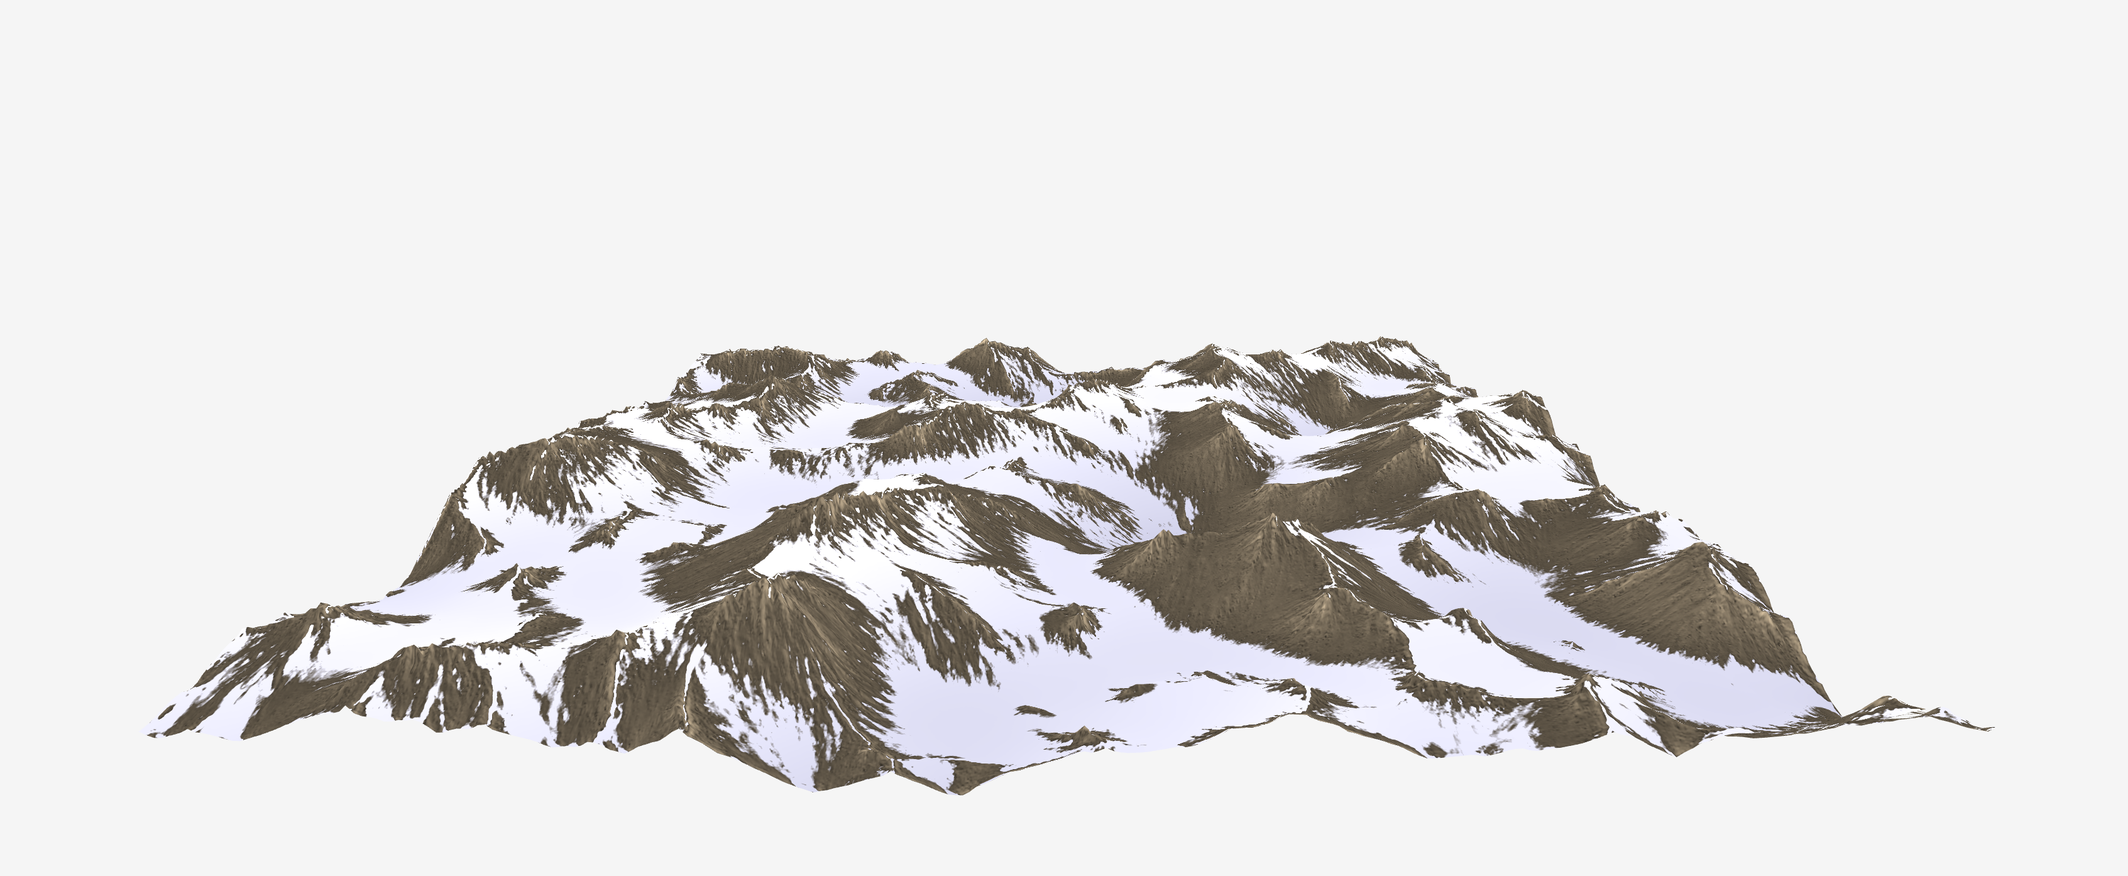
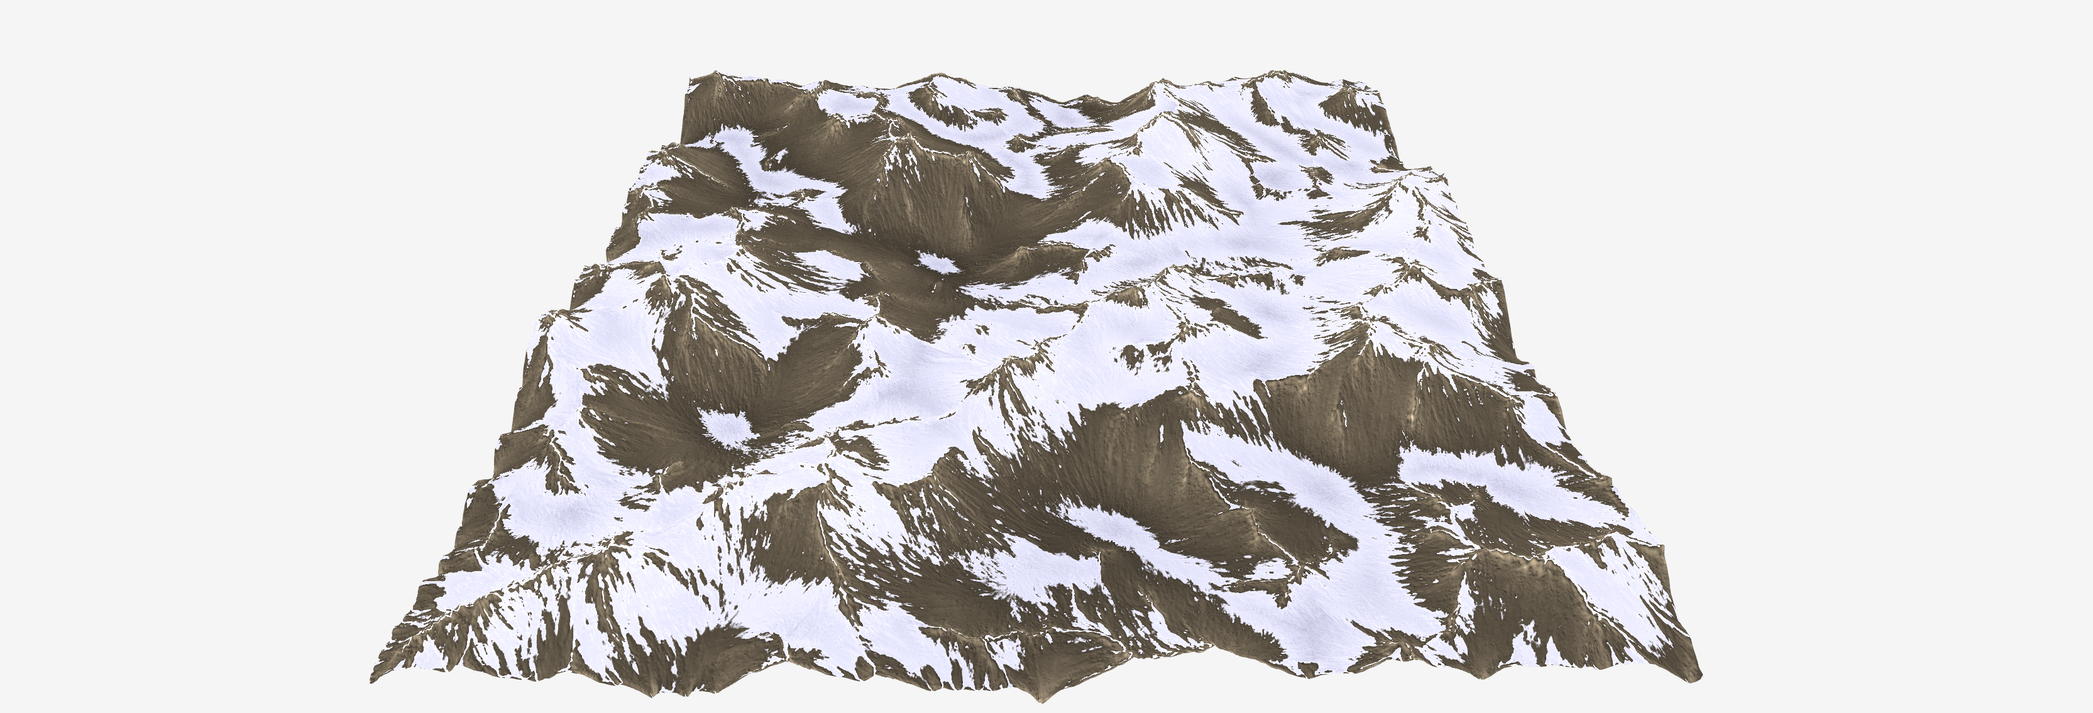
Update snow rendering. Fix a couple more silly buffer overflows.

Changed region(s): [[0.0625, 0.0925, 0.9369, 0.9868]]

diff --git a/src/shaders/shaders.h b/src/shaders/shaders.h
@@ -86,69 +86,76 @@ static const char SHADERS_HMAP_FRAG_SRC[] = {
     44, 10, 32, 32, 32, 32, 32, 32, 32, 32, 32, 32, 32, 32, 32, 32, 32, 32, 32, 32, 
     32, 32, 32, 32, 32, 32, 32, 32, 32, 32, 32, 32, 32, 32, 32, 32, 32, 32, 32, 32, 
     32, 32, 32, 32, 32, 32, 115, 110, 111, 119, 95, 112, 111, 111, 108, 105, 110, 103, 42, 115, 
-    110, 111, 119, 95, 116, 104, 114, 101, 115, 104, 111, 108, 100, 45, 48, 46, 48, 48, 49, 53, 
-    44, 10, 32, 32, 32, 32, 32, 32, 32, 32, 32, 32, 32, 32, 32, 32, 32, 32, 32, 32, 
+    110, 111, 119, 95, 116, 104, 114, 101, 115, 104, 111, 108, 100, 45, 48, 46, 48, 48, 48, 54, 
+    47, 112, 111, 119, 40, 118, 44, 32, 49, 46, 53, 41, 44, 10, 32, 32, 32, 32, 32, 32, 
     32, 32, 32, 32, 32, 32, 32, 32, 32, 32, 32, 32, 32, 32, 32, 32, 32, 32, 32, 32, 
-    32, 32, 32, 32, 32, 32, 48, 46, 48, 44, 32, 49, 46, 48, 44, 32, 115, 110, 111, 119, 
-    95, 103, 114, 97, 100, 105, 101, 110, 116, 41, 44, 32, 48, 44, 32, 49, 41, 59, 10, 32, 
-    32, 32, 32, 32, 32, 32, 32, 32, 32, 32, 32, 118, 101, 99, 51, 32, 115, 110, 111, 119, 
-    32, 61, 32, 118, 101, 99, 51, 40, 48, 46, 55, 41, 32, 43, 32, 48, 46, 54, 42, 118, 
-    101, 99, 51, 40, 118, 44, 32, 118, 44, 32, 48, 46, 50, 43, 48, 46, 56, 48, 42, 118, 
-    41, 59, 10, 32, 32, 32, 32, 32, 32, 32, 32, 32, 32, 32, 32, 118, 101, 99, 51, 32, 
-    114, 111, 99, 107, 32, 61, 32, 118, 101, 99, 51, 40, 49, 48, 42, 112, 111, 119, 40, 103, 
-    114, 97, 100, 105, 101, 110, 116, 44, 32, 49, 46, 48, 47, 50, 46, 50, 41, 32, 43, 32, 
-    48, 46, 51, 41, 32, 42, 32, 118, 101, 99, 51, 40, 48, 46, 52, 48, 44, 48, 46, 51, 
-    54, 44, 48, 46, 51, 48, 41, 59, 10, 32, 32, 32, 32, 32, 32, 32, 32, 32, 32, 32, 
-    32, 102, 105, 110, 97, 108, 67, 111, 108, 111, 114, 32, 61, 32, 118, 101, 99, 52, 40, 115, 
-    110, 111, 119, 95, 97, 109, 111, 117, 110, 116, 32, 42, 32, 115, 110, 111, 119, 32, 43, 32, 
-    40, 49, 46, 48, 32, 45, 32, 115, 110, 111, 119, 95, 97, 109, 111, 117, 110, 116, 41, 32, 
-    42, 32, 114, 111, 99, 107, 44, 32, 49, 46, 48, 41, 59, 10, 32, 32, 32, 32, 32, 32, 
-    32, 32, 125, 32, 98, 114, 101, 97, 107, 59, 10, 10, 32, 32, 32, 32, 32, 32, 32, 32, 
-    47, 42, 32, 114, 97, 119, 32, 97, 108, 98, 101, 100, 111, 32, 42, 47, 10, 32, 32, 32, 
-    32, 32, 32, 32, 32, 99, 97, 115, 101, 32, 49, 58, 32, 123, 10, 32, 32, 32, 32, 32, 
-    32, 32, 32, 32, 32, 32, 32, 102, 105, 110, 97, 108, 67, 111, 108, 111, 114, 32, 61, 32, 
-    118, 101, 99, 52, 40, 118, 41, 59, 10, 32, 32, 32, 32, 32, 32, 32, 32, 125, 32, 98, 
-    114, 101, 97, 107, 59, 10, 10, 32, 32, 32, 32, 32, 32, 32, 32, 47, 42, 32, 101, 120, 
-    97, 103, 103, 101, 114, 97, 116, 101, 100, 32, 97, 108, 98, 101, 100, 111, 32, 42, 47, 10, 
-    32, 32, 32, 32, 32, 32, 32, 32, 99, 97, 115, 101, 32, 50, 58, 32, 123, 10, 32, 32, 
+    32, 32, 32, 32, 32, 32, 32, 32, 32, 32, 32, 32, 32, 32, 32, 32, 32, 32, 48, 46, 
+    48, 44, 32, 49, 46, 48, 44, 32, 115, 110, 111, 119, 95, 103, 114, 97, 100, 105, 101, 110, 
+    116, 47, 112, 111, 119, 40, 118, 44, 32, 49, 46, 53, 41, 41, 44, 32, 48, 44, 32, 49, 
+    41, 59, 10, 32, 32, 32, 32, 32, 32, 32, 32, 32, 32, 32, 32, 102, 108, 111, 97, 116, 
+    32, 102, 108, 97, 116, 116, 101, 110, 101, 100, 95, 103, 114, 97, 100, 105, 101, 110, 116, 32, 
+    61, 32, 112, 111, 119, 40, 103, 114, 97, 100, 105, 101, 110, 116, 44, 32, 49, 46, 48, 47, 
+    56, 46, 50, 41, 59, 10, 32, 32, 32, 32, 32, 32, 32, 32, 32, 32, 32, 32, 118, 101, 
+    99, 51, 32, 115, 110, 111, 119, 32, 61, 32, 48, 46, 53, 32, 43, 32, 118, 101, 99, 51, 
+    40, 102, 108, 97, 116, 116, 101, 110, 101, 100, 95, 103, 114, 97, 100, 105, 101, 110, 116, 44, 
+    32, 102, 108, 97, 116, 116, 101, 110, 101, 100, 95, 103, 114, 97, 100, 105, 101, 110, 116, 44, 
+    32, 48, 46, 49, 53, 43, 48, 46, 56, 53, 42, 102, 108, 97, 116, 116, 101, 110, 101, 100, 
+    95, 103, 114, 97, 100, 105, 101, 110, 116, 41, 59, 10, 32, 32, 32, 32, 32, 32, 32, 32, 
+    32, 32, 32, 32, 118, 101, 99, 51, 32, 114, 111, 99, 107, 32, 61, 32, 118, 101, 99, 51, 
+    40, 49, 48, 42, 112, 111, 119, 40, 103, 114, 97, 100, 105, 101, 110, 116, 44, 32, 49, 46, 
+    48, 47, 50, 46, 50, 41, 32, 43, 32, 48, 46, 51, 41, 32, 42, 32, 118, 101, 99, 51, 
+    40, 48, 46, 52, 48, 44, 48, 46, 51, 54, 44, 48, 46, 51, 48, 41, 59, 10, 32, 32, 
     32, 32, 32, 32, 32, 32, 32, 32, 32, 32, 102, 105, 110, 97, 108, 67, 111, 108, 111, 114, 
-    32, 61, 32, 118, 101, 99, 52, 40, 53, 42, 112, 111, 119, 40, 118, 44, 32, 52, 46, 50, 
-    41, 41, 59, 10, 32, 32, 32, 32, 32, 32, 32, 32, 125, 32, 98, 114, 101, 97, 107, 59, 
-    10, 10, 32, 32, 32, 32, 32, 32, 32, 32, 47, 42, 32, 103, 114, 97, 121, 115, 99, 97, 
-    108, 101, 32, 103, 114, 97, 100, 105, 101, 110, 116, 32, 42, 47, 10, 32, 32, 32, 32, 32, 
-    32, 32, 32, 99, 97, 115, 101, 32, 51, 58, 32, 123, 10, 32, 32, 32, 32, 32, 32, 32, 
-    32, 32, 32, 32, 32, 102, 105, 110, 97, 108, 67, 111, 108, 111, 114, 32, 61, 32, 118, 101, 
-    99, 52, 40, 53, 42, 112, 111, 119, 40, 103, 114, 97, 100, 105, 101, 110, 116, 44, 32, 49, 
-    46, 48, 47, 50, 46, 50, 41, 41, 59, 10, 32, 32, 32, 32, 32, 32, 32, 32, 125, 32, 
-    98, 114, 101, 97, 107, 59, 10, 10, 32, 32, 32, 32, 32, 32, 32, 32, 47, 42, 32, 112, 
-    115, 101, 117, 100, 111, 32, 99, 111, 108, 111, 114, 105, 110, 103, 32, 103, 114, 97, 100, 105, 
-    101, 110, 116, 32, 42, 47, 10, 32, 32, 32, 32, 32, 32, 32, 32, 99, 97, 115, 101, 32, 
-    52, 58, 32, 123, 10, 32, 32, 32, 32, 32, 32, 32, 32, 32, 32, 32, 32, 102, 108, 111, 
-    97, 116, 32, 102, 108, 97, 116, 116, 101, 110, 101, 100, 95, 103, 114, 97, 100, 105, 101, 110, 
-    116, 32, 61, 32, 112, 111, 119, 40, 103, 114, 97, 100, 105, 101, 110, 116, 44, 32, 49, 46, 
-    48, 47, 50, 46, 50, 41, 59, 10, 32, 32, 32, 32, 32, 32, 32, 32, 32, 32, 32, 32, 
-    102, 108, 111, 97, 116, 32, 114, 97, 116, 101, 32, 61, 32, 52, 59, 10, 32, 32, 32, 32, 
-    32, 32, 32, 32, 32, 32, 32, 32, 102, 108, 111, 97, 116, 32, 114, 32, 61, 32, 99, 111, 
-    115, 40, 50, 42, 80, 73, 32, 42, 32, 40, 114, 97, 116, 101, 42, 102, 108, 97, 116, 116, 
-    101, 110, 101, 100, 95, 103, 114, 97, 100, 105, 101, 110, 116, 41, 41, 59, 10, 32, 32, 32, 
-    32, 32, 32, 32, 32, 32, 32, 32, 32, 102, 108, 111, 97, 116, 32, 103, 32, 61, 32, 99, 
-    111, 115, 40, 50, 42, 80, 73, 32, 42, 32, 40, 48, 46, 54, 54, 55, 32, 43, 32, 114, 
+    32, 61, 32, 118, 101, 99, 52, 40, 115, 110, 111, 119, 95, 97, 109, 111, 117, 110, 116, 32, 
+    42, 32, 115, 110, 111, 119, 32, 43, 32, 40, 49, 46, 48, 32, 45, 32, 115, 110, 111, 119, 
+    95, 97, 109, 111, 117, 110, 116, 41, 32, 42, 32, 114, 111, 99, 107, 44, 32, 49, 46, 48, 
+    41, 59, 10, 32, 32, 32, 32, 32, 32, 32, 32, 125, 32, 98, 114, 101, 97, 107, 59, 10, 
+    10, 32, 32, 32, 32, 32, 32, 32, 32, 47, 42, 32, 114, 97, 119, 32, 97, 108, 98, 101, 
+    100, 111, 32, 42, 47, 10, 32, 32, 32, 32, 32, 32, 32, 32, 99, 97, 115, 101, 32, 49, 
+    58, 32, 123, 10, 32, 32, 32, 32, 32, 32, 32, 32, 32, 32, 32, 32, 102, 105, 110, 97, 
+    108, 67, 111, 108, 111, 114, 32, 61, 32, 118, 101, 99, 52, 40, 118, 41, 59, 10, 32, 32, 
+    32, 32, 32, 32, 32, 32, 125, 32, 98, 114, 101, 97, 107, 59, 10, 10, 32, 32, 32, 32, 
+    32, 32, 32, 32, 47, 42, 32, 101, 120, 97, 103, 103, 101, 114, 97, 116, 101, 100, 32, 97, 
+    108, 98, 101, 100, 111, 32, 42, 47, 10, 32, 32, 32, 32, 32, 32, 32, 32, 99, 97, 115, 
+    101, 32, 50, 58, 32, 123, 10, 32, 32, 32, 32, 32, 32, 32, 32, 32, 32, 32, 32, 102, 
+    105, 110, 97, 108, 67, 111, 108, 111, 114, 32, 61, 32, 118, 101, 99, 52, 40, 53, 42, 112, 
+    111, 119, 40, 118, 44, 32, 52, 46, 50, 41, 41, 59, 10, 32, 32, 32, 32, 32, 32, 32, 
+    32, 125, 32, 98, 114, 101, 97, 107, 59, 10, 10, 32, 32, 32, 32, 32, 32, 32, 32, 47, 
+    42, 32, 103, 114, 97, 121, 115, 99, 97, 108, 101, 32, 103, 114, 97, 100, 105, 101, 110, 116, 
+    32, 42, 47, 10, 32, 32, 32, 32, 32, 32, 32, 32, 99, 97, 115, 101, 32, 51, 58, 32, 
+    123, 10, 32, 32, 32, 32, 32, 32, 32, 32, 32, 32, 32, 32, 102, 105, 110, 97, 108, 67, 
+    111, 108, 111, 114, 32, 61, 32, 118, 101, 99, 52, 40, 53, 42, 112, 111, 119, 40, 103, 114, 
+    97, 100, 105, 101, 110, 116, 44, 32, 49, 46, 48, 47, 50, 46, 50, 41, 41, 59, 10, 32, 
+    32, 32, 32, 32, 32, 32, 32, 125, 32, 98, 114, 101, 97, 107, 59, 10, 10, 32, 32, 32, 
+    32, 32, 32, 32, 32, 47, 42, 32, 112, 115, 101, 117, 100, 111, 32, 99, 111, 108, 111, 114, 
+    105, 110, 103, 32, 103, 114, 97, 100, 105, 101, 110, 116, 32, 42, 47, 10, 32, 32, 32, 32, 
+    32, 32, 32, 32, 99, 97, 115, 101, 32, 52, 58, 32, 123, 10, 32, 32, 32, 32, 32, 32, 
+    32, 32, 32, 32, 32, 32, 102, 108, 111, 97, 116, 32, 102, 108, 97, 116, 116, 101, 110, 101, 
+    100, 95, 103, 114, 97, 100, 105, 101, 110, 116, 32, 61, 32, 112, 111, 119, 40, 103, 114, 97, 
+    100, 105, 101, 110, 116, 44, 32, 49, 46, 48, 47, 50, 46, 50, 41, 59, 10, 32, 32, 32, 
+    32, 32, 32, 32, 32, 32, 32, 32, 32, 102, 108, 111, 97, 116, 32, 114, 97, 116, 101, 32, 
+    61, 32, 52, 59, 10, 32, 32, 32, 32, 32, 32, 32, 32, 32, 32, 32, 32, 102, 108, 111, 
+    97, 116, 32, 114, 32, 61, 32, 99, 111, 115, 40, 50, 42, 80, 73, 32, 42, 32, 40, 114, 
     97, 116, 101, 42, 102, 108, 97, 116, 116, 101, 110, 101, 100, 95, 103, 114, 97, 100, 105, 101, 
     110, 116, 41, 41, 59, 10, 32, 32, 32, 32, 32, 32, 32, 32, 32, 32, 32, 32, 102, 108, 
-    111, 97, 116, 32, 98, 32, 61, 32, 99, 111, 115, 40, 50, 42, 80, 73, 32, 42, 32, 40, 
-    50, 42, 48, 46, 54, 54, 55, 32, 43, 32, 114, 97, 116, 101, 42, 102, 108, 97, 116, 116, 
-    101, 110, 101, 100, 95, 103, 114, 97, 100, 105, 101, 110, 116, 41, 41, 59, 10, 32, 32, 32, 
-    32, 32, 32, 32, 32, 32, 32, 32, 32, 102, 105, 110, 97, 108, 67, 111, 108, 111, 114, 32, 
-    61, 32, 118, 101, 99, 52, 40, 114, 42, 114, 44, 32, 103, 42, 103, 44, 32, 98, 42, 98, 
-    44, 32, 49, 46, 48, 41, 59, 10, 32, 32, 32, 32, 32, 32, 32, 32, 125, 32, 98, 114, 
-    101, 97, 107, 59, 10, 10, 32, 32, 32, 32, 32, 32, 32, 32, 47, 42, 32, 105, 110, 118, 
-    97, 108, 105, 100, 32, 109, 111, 100, 101, 32, 115, 101, 116, 116, 105, 110, 103, 32, 42, 47, 
-    10, 32, 32, 32, 32, 32, 32, 32, 32, 100, 101, 102, 97, 117, 108, 116, 58, 32, 123, 10, 
-    32, 32, 32, 32, 32, 32, 32, 32, 32, 32, 32, 32, 102, 105, 110, 97, 108, 67, 111, 108, 
-    111, 114, 32, 61, 32, 118, 101, 99, 52, 40, 49, 46, 48, 44, 32, 48, 46, 48, 44, 32, 
-    49, 46, 48, 44, 32, 49, 46, 48, 41, 59, 10, 32, 32, 32, 32, 32, 32, 32, 32, 125, 
-    10, 32, 32, 32, 32, 125, 10, 10, 32, 32, 32, 32, 102, 105, 110, 97, 108, 67, 111, 108, 
-    111, 114, 46, 119, 32, 61, 32, 49, 46, 48, 59, 10, 125, 10
+    111, 97, 116, 32, 103, 32, 61, 32, 99, 111, 115, 40, 50, 42, 80, 73, 32, 42, 32, 40, 
+    48, 46, 54, 54, 55, 32, 43, 32, 114, 97, 116, 101, 42, 102, 108, 97, 116, 116, 101, 110, 
+    101, 100, 95, 103, 114, 97, 100, 105, 101, 110, 116, 41, 41, 59, 10, 32, 32, 32, 32, 32, 
+    32, 32, 32, 32, 32, 32, 32, 102, 108, 111, 97, 116, 32, 98, 32, 61, 32, 99, 111, 115, 
+    40, 50, 42, 80, 73, 32, 42, 32, 40, 50, 42, 48, 46, 54, 54, 55, 32, 43, 32, 114, 
+    97, 116, 101, 42, 102, 108, 97, 116, 116, 101, 110, 101, 100, 95, 103, 114, 97, 100, 105, 101, 
+    110, 116, 41, 41, 59, 10, 32, 32, 32, 32, 32, 32, 32, 32, 32, 32, 32, 32, 102, 105, 
+    110, 97, 108, 67, 111, 108, 111, 114, 32, 61, 32, 118, 101, 99, 52, 40, 114, 42, 114, 44, 
+    32, 103, 42, 103, 44, 32, 98, 42, 98, 44, 32, 49, 46, 48, 41, 59, 10, 32, 32, 32, 
+    32, 32, 32, 32, 32, 125, 32, 98, 114, 101, 97, 107, 59, 10, 10, 32, 32, 32, 32, 32, 
+    32, 32, 32, 47, 42, 32, 105, 110, 118, 97, 108, 105, 100, 32, 109, 111, 100, 101, 32, 115, 
+    101, 116, 116, 105, 110, 103, 32, 42, 47, 10, 32, 32, 32, 32, 32, 32, 32, 32, 100, 101, 
+    102, 97, 117, 108, 116, 58, 32, 123, 10, 32, 32, 32, 32, 32, 32, 32, 32, 32, 32, 32, 
+    32, 102, 105, 110, 97, 108, 67, 111, 108, 111, 114, 32, 61, 32, 118, 101, 99, 52, 40, 49, 
+    46, 48, 44, 32, 48, 46, 48, 44, 32, 49, 46, 48, 44, 32, 49, 46, 48, 41, 59, 10, 
+    32, 32, 32, 32, 32, 32, 32, 32, 125, 10, 32, 32, 32, 32, 125, 10, 10, 32, 32, 32, 
+    32, 102, 105, 110, 97, 108, 67, 111, 108, 111, 114, 46, 119, 32, 61, 32, 49, 46, 48, 59, 
+    10, 125, 10, 10, 10
     , 0
 };
 

diff --git a/src/ui.c b/src/ui.c
@@ -111,7 +111,7 @@ void *ui_run(void *args)
     int shader_snow_pooling_loc = GetShaderLocation(hmap_material.shader, "snow_pooling");
     int shader_mode           = 0;
     float shader_res          = (float) hmap->width;
-    float shader_snow_thresh  = 0.002f;
+    float shader_snow_thresh  = 0.006f;
     float shader_snow_pooling = 6.000f;
     SetShaderValue(hmap_material.shader, shader_mode_loc, &shader_mode, SHADER_UNIFORM_INT);
     SetShaderValue(hmap_material.shader, shader_res_loc, &shader_res, SHADER_UNIFORM_FLOAT);
@@ -213,7 +213,7 @@ void *ui_run(void *args)
                 shader_snow_pooling = clamp(shader_snow_pooling, 1.0, 25.0);
                 SetShaderValue(hmap_material.shader, shader_snow_pooling_loc, &shader_snow_pooling, SHADER_UNIFORM_FLOAT);
             } else {
-                shader_snow_thresh -= 0.00001f*mouse_delta.y;
+                shader_snow_thresh -= 0.00005f*mouse_delta.y;
                 shader_snow_thresh = clamp(shader_snow_thresh, 0.0, 10.0);
                 SetShaderValue(hmap_material.shader, shader_snow_thresh_loc, &shader_snow_thresh, SHADER_UNIFORM_FLOAT);
             }
@@ -286,7 +286,7 @@ void *ui_run(void *args)
                 DrawText(TextFormat("Right mouse button - change terrain height (%2.2f)", terrain_height), 10, 440, 24, BLACK);
 
                 /* Section "Image Resolution" */
-                int ypos = screen_height - 520;
+                int ypos = screen_height - 550;
                 DrawText("Image Resolution:", 10, ypos, 38, BLACK);
                 DrawText(TextFormat("%dx%d (previewed as 256x256)", hmap->width, hmap->height), 10, ypos + 40, 24, BLACK);
 
@@ -294,28 +294,30 @@ void *ui_run(void *args)
                 DrawText("Simulation Parameters: ", 10, ypos + 100, 38, BLACK);
                 DrawText("# of particles", 10, ypos + 140, 24, BLACK); 
                 DrawText(TextFormat("= %d", sim_params->n), 300, ypos + 140, 24, BLACK);
-                DrawText("ttl          ", 10, ypos + 170, 24, BLACK); 
-                DrawText(TextFormat("= %d", sim_params->ttl), 300, ypos + 170, 24, BLACK);
-                DrawText("p_radius     ", 10, ypos + 200, 24, BLACK); 
-                DrawText(TextFormat("= %d", sim_params->p_radius), 300, ypos + 200, 24, BLACK);
-                DrawText("p_inertia    ", 10, ypos + 230, 24, BLACK); 
-                DrawText(TextFormat("= %f", sim_params->p_inertia), 300, ypos + 230, 24, BLACK);
-                DrawText("p_capacity   ", 10, ypos + 260, 24, BLACK); 
-                DrawText(TextFormat("= %f", sim_params->p_capacity), 300, ypos + 260, 24, BLACK);
-                DrawText("p_gravity    ", 10, ypos + 290, 24, BLACK); 
-                DrawText(TextFormat("= %f", sim_params->p_gravity), 300, ypos + 290, 24, BLACK);
-                DrawText("p_evaporation", 10, ypos + 320, 24, BLACK); 
-                DrawText(TextFormat("= %f", sim_params->p_evaporation), 300, ypos + 320, 24, BLACK);
-                DrawText("p_erosion    ", 10, ypos + 350, 24, BLACK); 
-                DrawText(TextFormat("= %f", sim_params->p_erosion), 300, ypos + 350, 24, BLACK);
-                DrawText("p_deposition ", 10, ypos + 380, 24, BLACK); 
-                DrawText(TextFormat("= %f", sim_params->p_deposition), 300, ypos + 380, 24, BLACK);
-                DrawText("p_min_slope  ", 10, ypos + 410, 24, BLACK); 
-                DrawText(TextFormat("= %f", sim_params->p_min_slope), 300, ypos + 410, 24, BLACK);
-                DrawText("p_initial_velocity  ", 10, ypos + 440, 24, BLACK); 
-                DrawText(TextFormat("= %f", sim_params->p_initial_velocity), 300, ypos + 440, 24, BLACK);
-                DrawText("p_initial_water  ", 10, ypos + 470, 24, BLACK); 
-                DrawText(TextFormat("= %f", sim_params->p_initial_water), 300, ypos + 470, 24, BLACK);
+                DrawText("seed          ", 10, ypos + 170, 24, BLACK); 
+                DrawText(TextFormat("= %d", sim_params->seed), 300, ypos + 170, 24, BLACK);
+                DrawText("ttl          ", 10, ypos + 200, 24, BLACK); 
+                DrawText(TextFormat("= %d", sim_params->ttl), 300, ypos + 200, 24, BLACK);
+                DrawText("p_radius     ", 10, ypos + 230, 24, BLACK); 
+                DrawText(TextFormat("= %d", sim_params->p_radius), 300, ypos + 230, 24, BLACK);
+                DrawText("p_inertia    ", 10, ypos + 260, 24, BLACK); 
+                DrawText(TextFormat("= %f", sim_params->p_inertia), 300, ypos + 260, 24, BLACK);
+                DrawText("p_capacity   ", 10, ypos + 290, 24, BLACK); 
+                DrawText(TextFormat("= %f", sim_params->p_capacity), 300, ypos + 290, 24, BLACK);
+                DrawText("p_gravity    ", 10, ypos + 320, 24, BLACK); 
+                DrawText(TextFormat("= %f", sim_params->p_gravity), 300, ypos + 320, 24, BLACK);
+                DrawText("p_evaporation", 10, ypos + 350, 24, BLACK); 
+                DrawText(TextFormat("= %f", sim_params->p_evaporation), 300, ypos + 350, 24, BLACK);
+                DrawText("p_erosion    ", 10, ypos + 380, 24, BLACK); 
+                DrawText(TextFormat("= %f", sim_params->p_erosion), 300, ypos + 380, 24, BLACK);
+                DrawText("p_deposition ", 10, ypos + 410, 24, BLACK); 
+                DrawText(TextFormat("= %f", sim_params->p_deposition), 300, ypos + 410, 24, BLACK);
+                DrawText("p_min_slope  ", 10, ypos + 440, 24, BLACK); 
+                DrawText(TextFormat("= %f", sim_params->p_min_slope), 300, ypos + 440, 24, BLACK);
+                DrawText("p_initial_velocity  ", 10, ypos + 470, 24, BLACK); 
+                DrawText(TextFormat("= %f", sim_params->p_initial_velocity), 300, ypos + 470, 24, BLACK);
+                DrawText("p_initial_water  ", 10, ypos + 500, 24, BLACK); 
+                DrawText(TextFormat("= %f", sim_params->p_initial_water), 300, ypos + 500, 24, BLACK);
             }
 
         EndDrawing();

diff --git a/src/erosion_sim.c b/src/erosion_sim.c
@@ -142,8 +142,13 @@ HeigthGradientTuple height_gradient_at(ErodrImage *hmap, Vec2 pos) {
 /*
  * Runs hydraulic erosion simulation.
  */
+#include <assert.h>
 void erosion_sim_run(ErodrImage *hmap, SimulationParameters *params) {
-    srand(time(NULL));
+    if (params->seed == 0) {
+        srand(time(NULL));
+    } else {
+        srand((unsigned int)params->seed);
+    }
 
     /* simulate each particle */
     printf("Starting simulation.\n");
@@ -155,12 +160,19 @@ void erosion_sim_run(ErodrImage *hmap, SimulationParameters *params) {
 
         /* spawn particle. */
         Particle p;
-        float denom = (RAND_MAX / ((float)hmap->width - 1.0f));
+        const float epsilon = 0.0001f;
+        float denom = (RAND_MAX / ((float)(hmap->width - 1) - epsilon));
         p.pos = (Vec2){(float)rand() / denom, (float)rand() / denom}; 
         p.dir = (Vec2){0, 0};
         p.vel = params->p_initial_velocity;
         p.sediment = 0;
         p.water = params->p_initial_water;
+
+        if (!(p.pos.x >= 0.0f && p.pos.x < (hmap->width - 1)) ||
+            !(p.pos.y >= 0.0f && p.pos.y < (hmap->height - 1))) {
+            printf("pos = {%f, %f}\n", p.pos.x, p.pos.y);
+            assert(false);
+        }
 
         for(int j = 0; j < params->ttl; j++) {
             /* interpolate gradient g and height h_old at p's position. */
@@ -178,14 +190,13 @@ void erosion_sim_run(ErodrImage *hmap, SimulationParameters *params) {
             p.pos = vec2_add(p.pos, p.dir);
 
             /* check bounds */
-            Vec2 pos_new = p.pos;
-            if (pos_new.x > (hmap->width-2)  || pos_new.x < 1 || 
-                pos_new.y > (hmap->height-2) || pos_new.y < 1) {
+            if (p.pos.x >= (hmap->width - 1.0f)  || p.pos.x <= 0.0f || 
+                p.pos.y >= (hmap->height - 1.0f) || p.pos.y <= 0.0f) {
                 break;
             }
 
             /* new height */
-            float h_new = bilerp_map(hmap, pos_new);
+            float h_new = bilerp_map(hmap, p.pos);
             float h_diff = h_new - h_old;
 
             /* sediment capacity */

diff --git a/src/main.c b/src/main.c
@@ -41,6 +41,7 @@ Args parse_args(int argc, char *argv[])
     const char **opt_output_filepath = hgl_flags_add_str("-o,--output", "path to output heightmap *.pgm file", "output.pgm", 0);
     const char **opt_params_filepath = hgl_flags_add_str("-p,--params", "path to simulation parameters *.ini file", NULL, 0);
     bool *opt_ascii_encode_output    = hgl_flags_add_bool("-a, --ascii", "Use ascii encoding for output *.pgm file.", false, 0);
+    int64_t *opt_seed         = hgl_flags_add_i64("--seed", "Seed for the random number generator. A value of 0 uses the current time in seconds as the seed.", DEFAULT_PARAM_SEED, 0);
     int64_t *opt_n            = hgl_flags_add_i64("-n,--num-particles", "Number of particles to simulate", DEFAULT_PARAM_N, 0);
     int64_t *opt_ttl          = hgl_flags_add_i64("-t,--ttl", "Maximum lifetime of a particle", DEFAULT_PARAM_TTL, 0);
     int64_t *opt_radius       = hgl_flags_add_i64("-r,--radius", "Particle erosion radius", DEFAULT_PARAM_RADIUS, 0);
@@ -86,6 +87,7 @@ Args parse_args(int argc, char *argv[])
 
     if (hgl_flags_occured_before(opt_params_filepath, opt_n)) args.sim_params.n = (int) *opt_n;
     if (hgl_flags_occured_before(opt_params_filepath, opt_ttl)) args.sim_params.ttl = (int) *opt_ttl;
+    if (hgl_flags_occured_before(opt_params_filepath, opt_seed)) args.sim_params.seed = (int) *opt_seed;
     if (hgl_flags_occured_before(opt_params_filepath, opt_radius)) args.sim_params.p_radius = (int) *opt_radius;
     if (hgl_flags_occured_before(opt_params_filepath, opt_inertia)) args.sim_params.p_inertia = (float) *opt_inertia;
     if (hgl_flags_occured_before(opt_params_filepath, opt_capacity)) args.sim_params.p_capacity = (float) *opt_capacity;

diff --git a/src/io.c b/src/io.c
@@ -44,8 +44,9 @@ SimulationParameters io_read_params_ini(const char *filepath)
         exit(1);
     }
 
-    GET_INI_PARAM_INT(parameters, params_ini, ttl);
     GET_INI_PARAM_INT(parameters, params_ini, n);
+    GET_INI_PARAM_INT(parameters, params_ini, ttl);
+    GET_INI_PARAM_INT(parameters, params_ini, seed);
     GET_INI_PARAM_INT(parameters, params_ini, p_radius);
     GET_INI_PARAM_FLOAT(parameters, params_ini, p_inertia);
     GET_INI_PARAM_FLOAT(parameters, params_ini, p_capacity);
@@ -139,7 +140,7 @@ int io_load_pgm(const char *filepath, ErodrImage *img) {
         for(int i = 0; i < img->width * img->height; i++) {
             fread(tmp, sizeof(char), byte_depth, fp);
             int val = (byte_depth == 2) ? 
-                ((tmp[0] << 8) & 0xFF00) | (tmp[1] & 0x00FF) :
+                (((uint16_t)tmp[0] << 8) & 0xFF00) | (tmp[1] & 0x00FF) :
                 tmp[0] & 0xFF;
             data[i] = (float) val / precision;
         }

diff --git a/src/params.h b/src/params.h
@@ -2,6 +2,7 @@
 #define PARAMS_H
 
 #define DEFAULT_PARAM_N               70000
+#define DEFAULT_PARAM_SEED                0
 #define DEFAULT_PARAM_TTL                32
 #define DEFAULT_PARAM_RADIUS              2
 #define DEFAULT_PARAM_INERTIA             0.3
@@ -18,6 +19,7 @@
     (SimulationParameters) {                                  \
         .n                  = DEFAULT_PARAM_N,                \
         .ttl                = DEFAULT_PARAM_TTL,              \
+        .seed               = DEFAULT_PARAM_SEED,             \
         .p_radius           = DEFAULT_PARAM_RADIUS,           \
         .p_inertia          = DEFAULT_PARAM_INERTIA,          \
         .p_capacity         = DEFAULT_PARAM_CAPACITY,         \
@@ -36,6 +38,7 @@
 typedef struct SimulationParameters {
     int n;
     int ttl;
+    int seed;
     int p_radius;
     float p_inertia;
     float p_capacity;
